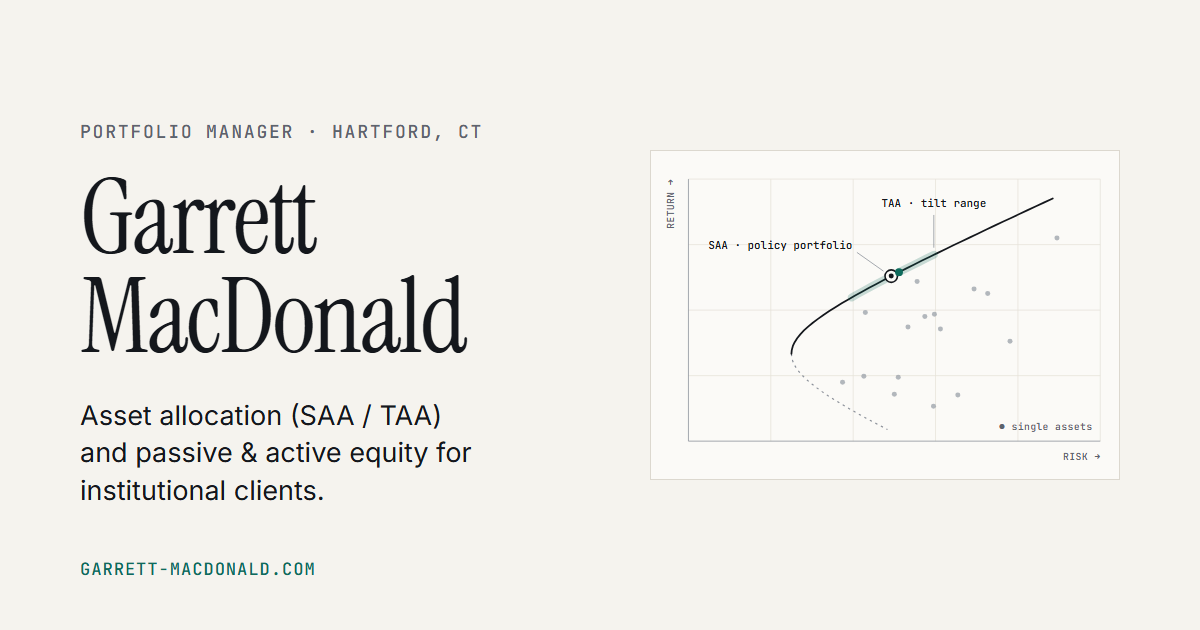
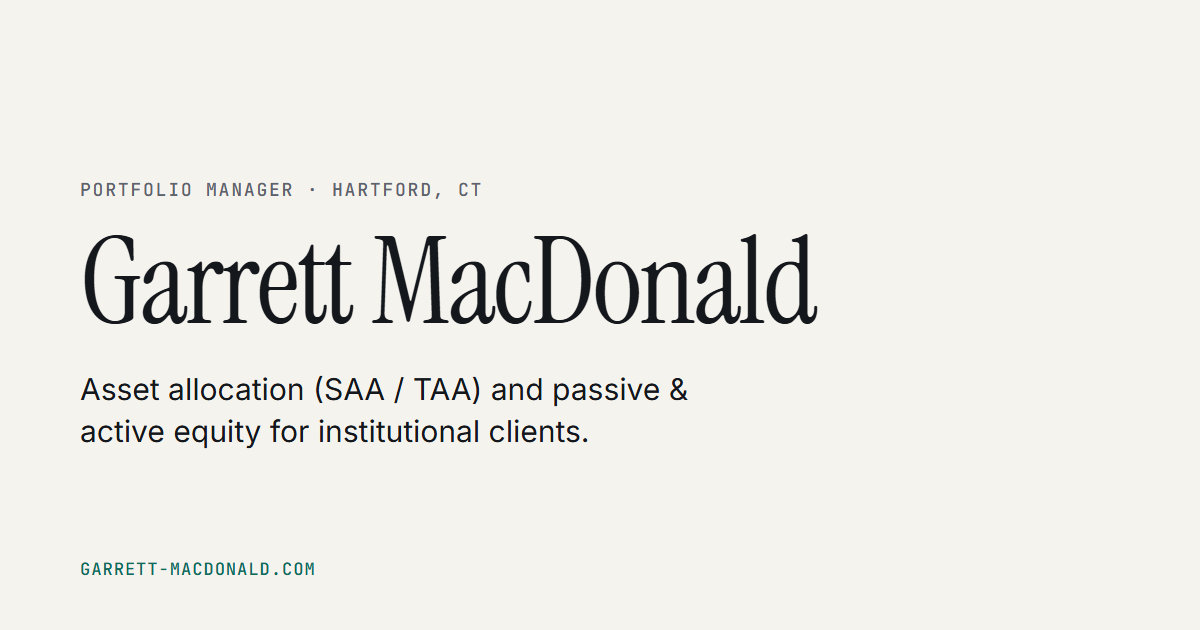
Remove the hero figure
Text-only hero with a larger name; share card regenerated without the chart.

diff --git a/index.html b/index.html
@@ -112,15 +112,12 @@
   .top-link:hover { border-color: var(--ink); }
 
   /* hero */
-  .hero {
-    display: grid; grid-template-columns: minmax(0, 1fr) minmax(0, 1.1fr);
-    gap: 56px; align-items: center; padding: 56px 0 88px;
-  }
+  .hero { padding: 88px 0 104px; }
   .hero h1 {
-    font: 400 clamp(52px, 7.4vw, 92px)/.95 var(--serif);
+    font: 400 clamp(56px, 10vw, 128px)/.92 var(--serif);
     letter-spacing: -.02em; margin: 18px 0 26px;
   }
-  .lead { font-size: clamp(18px, 1.9vw, 21px); line-height: 1.5; max-width: 34ch; }
+  .lead { font-size: clamp(19px, 2.2vw, 24px); line-height: 1.45; max-width: 38ch; }
   .lead strong { font-weight: 600; }
   .ctas { display: flex; flex-wrap: wrap; gap: 14px; margin-top: 34px; }
   .btn {
@@ -137,33 +134,6 @@
   .facts { display: flex; flex-wrap: wrap; gap: 8px 22px; margin-top: 30px; }
   .facts li { list-style: none; font: 400 13px/1.4 var(--mono); color: var(--muted); }
   .facts li::before { content: "— "; color: var(--faint); }
-
-  /* figure */
-  figure { border: 1px solid var(--rule); background: var(--panel); }
-  figure svg { display: block; width: 100%; height: auto; }
-  figcaption {
-    border-top: 1px solid var(--rule); padding: 14px 18px;
-    font: 400 12.5px/1.5 var(--mono); color: var(--muted);
-  }
-  figcaption b { color: var(--ink); font-weight: 500; }
-  .g-grid line { stroke: var(--grid); stroke-width: 1; }
-  .g-axis { fill: none; stroke: var(--faint); stroke-width: 1; }
-  .g-text { font: 400 12.5px var(--mono); fill: var(--muted); letter-spacing: .04em; }
-  .g-callout { font: 500 14px var(--mono); fill: var(--ink); }
-  .g-assets circle { fill: var(--dot); opacity: .75; }
-  .g-ineff { fill: none; stroke: var(--faint); stroke-width: 1.5; stroke-dasharray: 3 5; }
-  .g-front { fill: none; stroke: var(--ink); stroke-width: 2.25; stroke-linecap: round; stroke-linejoin: round; }
-  .g-tilt { fill: none; stroke: var(--accent); stroke-width: 10; stroke-linecap: round; opacity: .22; }
-  .g-leader { stroke: var(--faint); stroke-width: 1; }
-  .g-policy-ring { fill: var(--panel); stroke: var(--ink); stroke-width: 2; }
-  .g-policy { fill: var(--ink); }
-  .g-mover { fill: var(--accent); }
-  @media (prefers-reduced-motion: no-preference) {
-    .g-front { stroke-dasharray: 1; stroke-dashoffset: 1; animation: draw 1.8s .2s cubic-bezier(.6,.1,.2,1) forwards; }
-    .g-reveal { opacity: 0; animation: fade .8s 1.6s ease forwards; }
-  }
-  @keyframes draw { to { stroke-dashoffset: 0; } }
-  @keyframes fade { to { opacity: 1; } }
 
   /* sections */
   section { border-top: 1px solid var(--rule); padding: 72px 0; }
@@ -208,7 +178,7 @@
   .foot p:last-child { max-width: 68ch; }
 
   @media (max-width: 960px) {
-    .hero { grid-template-columns: 1fr; gap: 44px; padding: 36px 0 64px; }
+    .hero { padding: 48px 0 72px; }
     .areas { grid-template-columns: repeat(2, minmax(0, 1fr)); border-left: 0; }
     .area { border-right: 0; border-top: 1px solid var(--rule); padding: 22px 0 18px; }
     .area:nth-child(odd) { padding-right: 24px; border-right: 1px solid var(--rule); }
@@ -259,52 +229,6 @@
         </ul>
       </div>
 
-      <figure>
-        <svg viewBox="0 0 600 420" role="img" aria-labelledby="fig-title fig-desc">
-          <title id="fig-title">An efficient frontier</title>
-          <desc id="fig-desc">A stylized risk-versus-return chart. A curved efficient frontier rises from lower left to upper right above a scatter of single assets. A policy portfolio sits on the curve, and a highlighted stretch of the curve around it marks the range for tactical tilts.</desc>
-          <g class="g-grid">
-            <line x1="153.6" y1="36" x2="153.6" y2="372"/><line x1="259.2" y1="36" x2="259.2" y2="372"/>
-            <line x1="364.8" y1="36" x2="364.8" y2="372"/><line x1="470.4" y1="36" x2="470.4" y2="372"/>
-            <line x1="576" y1="36" x2="576" y2="372"/>
-            <line x1="48" y1="288" x2="576" y2="288"/><line x1="48" y1="204" x2="576" y2="204"/>
-            <line x1="48" y1="120" x2="576" y2="120"/><line x1="48" y1="36" x2="576" y2="36"/>
-          </g>
-          <path class="g-axis" d="M48 36 V372 H576"/>
-          <text class="g-text" x="576" y="396" text-anchor="end">RISK →</text>
-          <text class="g-text" transform="translate(30 36) rotate(-90)" text-anchor="end">RETURN →</text>
-
-          <g class="g-assets">
-            <circle cx="329.5" cy="225.5" r="3.2"/><circle cx="520.5" cy="111.5" r="3.2"/><circle cx="351.1" cy="212.1" r="3.2"/>
-            <circle cx="317.0" cy="290.1" r="3.2"/><circle cx="431.7" cy="182.6" r="3.2"/><circle cx="312.0" cy="311.9" r="3.2"/>
-            <circle cx="393.4" cy="312.8" r="3.2"/><circle cx="341.2" cy="167.3" r="3.2"/><circle cx="414.2" cy="176.8" r="3.2"/>
-            <circle cx="245.6" cy="296.6" r="3.2"/><circle cx="274.8" cy="207.1" r="3.2"/><circle cx="272.9" cy="288.7" r="3.2"/>
-            <circle cx="362.2" cy="327.4" r="3.2"/><circle cx="371.1" cy="228.3" r="3.2"/><circle cx="363.4" cy="209.3" r="3.2"/>
-            <circle cx="460.3" cy="244.0" r="3.2"/>
-          </g>
-
-          <path class="g-ineff" d="M180.0 260.0 L180.5 264.9 L181.8 269.7 L184.0 274.6 L187.0 279.4 L190.8 284.3 L195.4 289.1 L200.5 294.0 L206.3 298.8 L212.6 303.7 L219.3 308.5 L226.5 313.4 L234.0 318.2 L241.9 323.1 L250.0 327.9 L258.4 332.8 L267.0 337.7 L275.8 342.5 L284.8 347.4 L293.9 352.2 L303.2 357.1"/>
-          <path class="g-front" pathLength="1" d="M180.0 260.0 L180.5 255.0 L181.9 250.0 L184.2 245.1 L187.4 240.1 L191.4 235.1 L196.1 230.1 L201.5 225.2 L207.5 220.2 L214.1 215.2 L221.1 210.2 L228.6 205.2 L236.4 200.3 L244.5 195.3 L253.0 190.3 L261.7 185.3 L270.6 180.4 L279.7 175.4 L289.0 170.4 L298.4 165.4 L308.0 160.4 L317.7 155.5 L327.5 150.5 L337.5 145.5 L347.5 140.5 L357.6 135.6 L367.7 130.6 L378.0 125.6 L388.3 120.6 L398.6 115.6 L409.0 110.7 L419.5 105.7 L430.0 100.7 L440.5 95.7 L451.0 90.8 L461.6 85.8 L472.3 80.8 L482.9 75.8 L493.6 70.8 L504.3 65.9 L515.1 60.9"/>
-
-          <g class="g-reveal">
-            <path class="g-tilt" d="M257.3 187.8 L265.3 183.3 L273.6 178.7 L282.0 174.1 L290.5 169.6 L299.2 165.0 L308.0 160.4 L316.9 155.9 L325.9 151.3 L335.0 146.8 L344.1 142.2 L353.4 137.6 L362.6 133.1"/>
-            <line class="g-leader" x1="298" y1="154" x2="264" y2="130"/>
-            <text class="g-callout" x="258" y="126" text-anchor="end">SAA · policy portfolio</text>
-            <line class="g-leader" x1="362.6" y1="124" x2="362.6" y2="82"/>
-            <text class="g-callout" x="362.6" y="72" text-anchor="middle">TAA · tilt range</text>
-            <circle class="g-policy-ring" cx="308.0" cy="160.4" r="8"/>
-            <circle class="g-policy" cx="308.0" cy="160.4" r="3.2"/>
-            <circle class="g-mover" r="5">
-              <animateMotion dur="7s" repeatCount="indefinite" calcMode="spline"
-                keyPoints="0.5;1;0;0.5" keyTimes="0;0.25;0.75;1"
-                keySplines=".45 0 .55 1;.45 0 .55 1;.45 0 .55 1"
-                path="M257.3 187.8 L265.3 183.3 L273.6 178.7 L282.0 174.1 L290.5 169.6 L299.2 165.0 L308.0 160.4 L316.9 155.9 L325.9 151.3 L335.0 146.8 L344.1 142.2 L353.4 137.6 L362.6 133.1"/>
-            </circle>
-            <text class="g-text" x="566" y="358" text-anchor="end">● single assets</text>
-          </g>
-        </svg>
-        <figcaption><b>Fig. 1.</b> The job in one picture: set the policy portfolio, then tilt it with discipline. Illustrative only, not real data.</figcaption>
-      </figure>
     </div>
 
     <section id="work">
@@ -387,11 +311,5 @@
   </div>
 </footer>
 
-<script>
-  // SMIL ignores prefers-reduced-motion, so freeze the tilt dot for people who ask for less motion.
-  if (window.matchMedia('(prefers-reduced-motion: reduce)').matches) {
-    document.querySelectorAll('svg').forEach(function (s) { if (s.pauseAnimations) s.pauseAnimations(); });
-  }
-</script>
 </body>
 </html>
